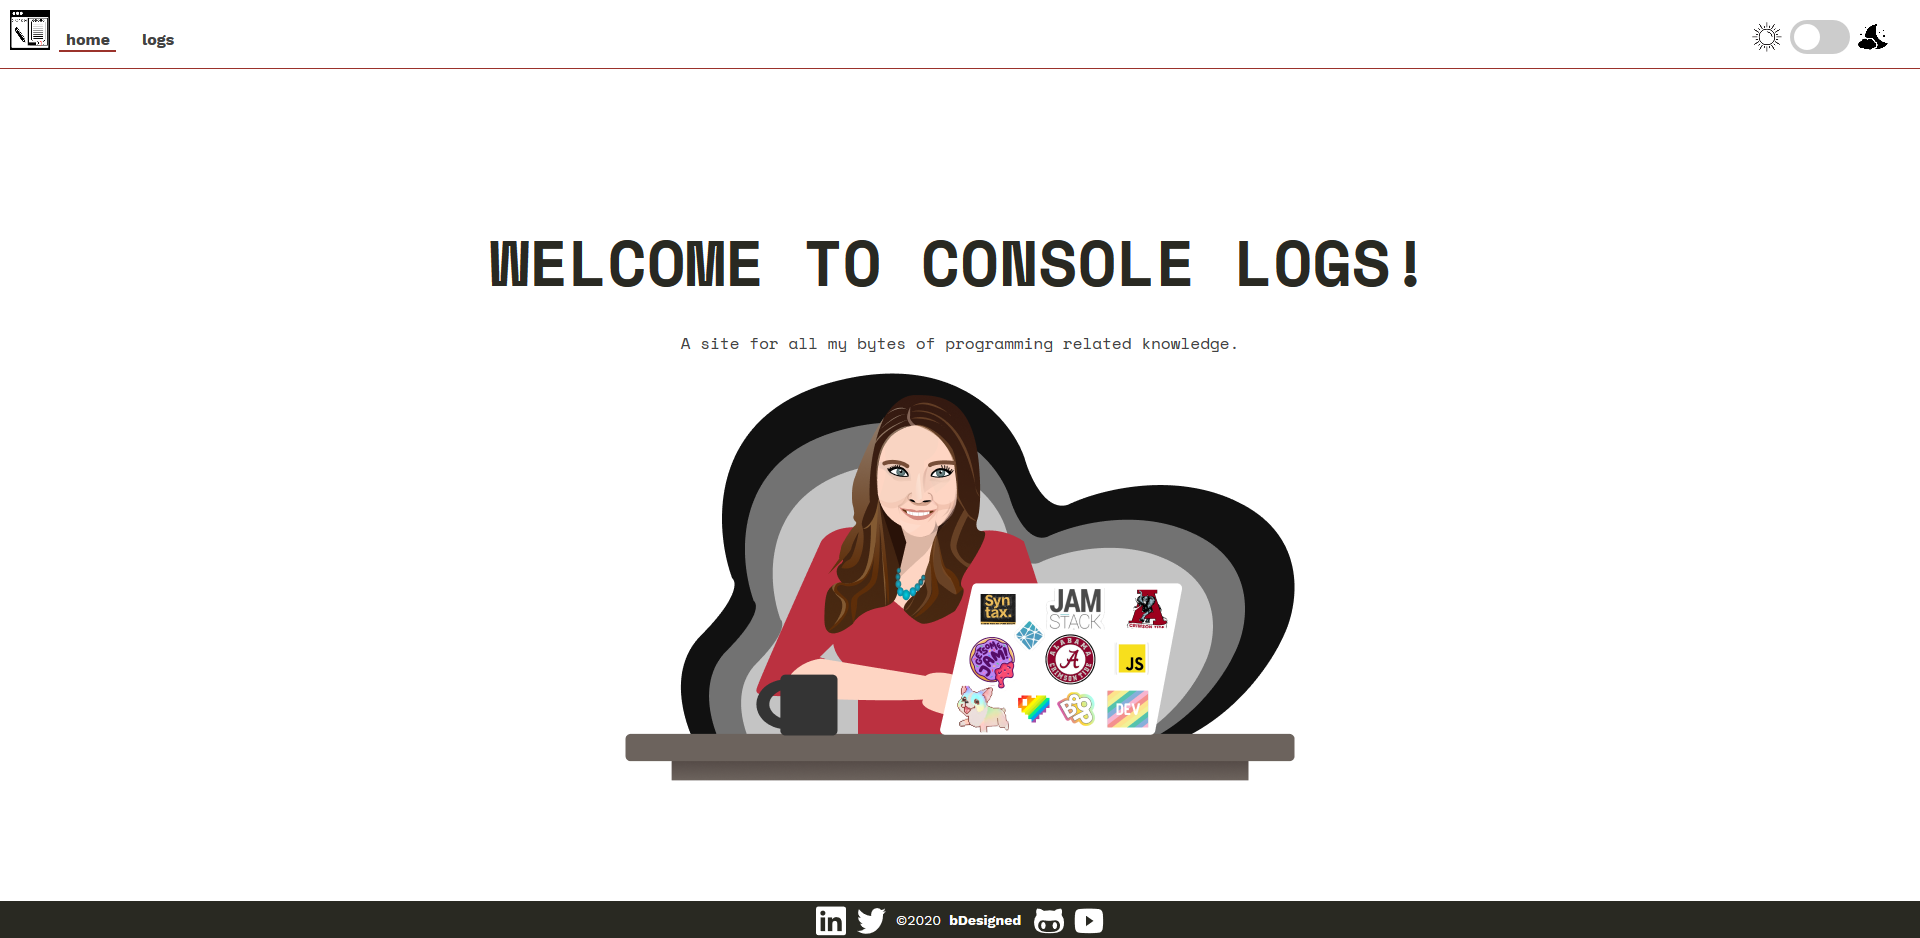
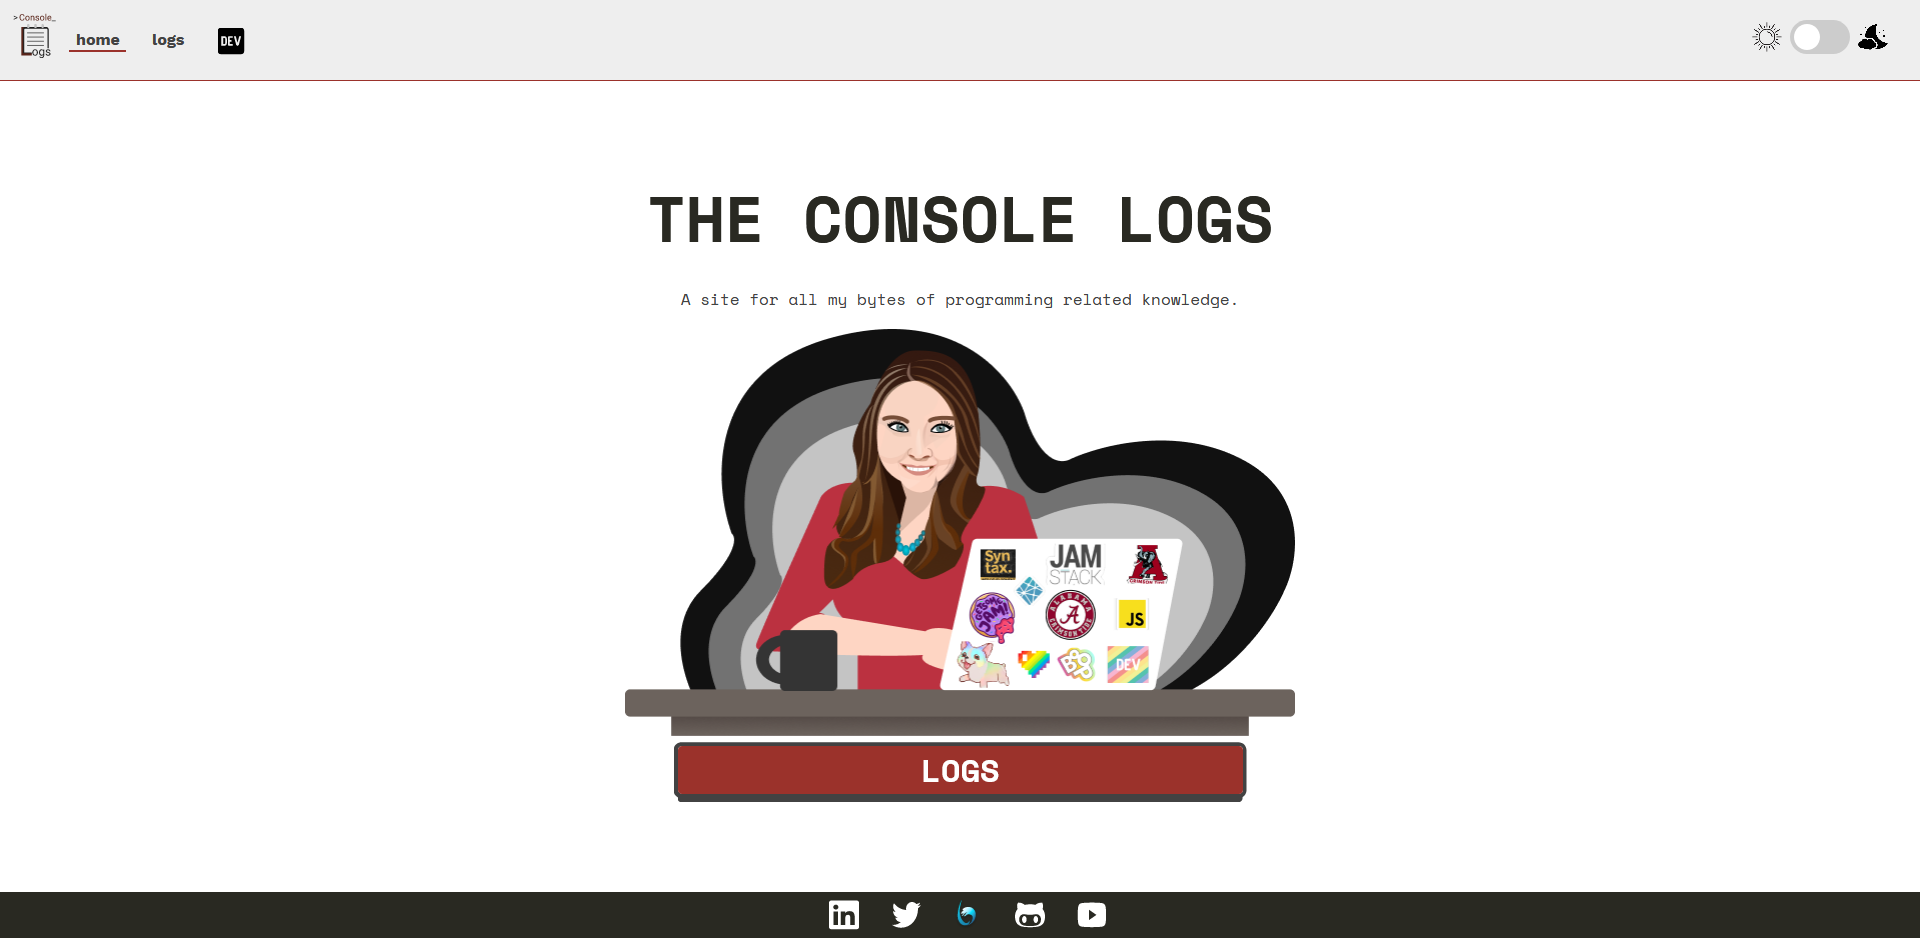
styles and dev link added

Changed region(s): [[0.25, 0.1855, 0.75, 0.8657], [0.0, 0.9275, 1.0, 1.0], [0.0, 0.0, 0.125, 0.0618]]

diff --git a/src/components/Footer.svelte b/src/components/Footer.svelte
@@ -39,6 +39,14 @@
   >
     <img src="youtube.png" alt="youtube" />
   </a>
+  <a
+  aria-label="opens dev.to profile in new tab"
+  href="https://dev.to/bdesigned"
+  rel="noopener noreferrer"
+  target="_blank"
+>
+  <img src="dev.png" alt="dev" />
+</a>
 </footer>
 
 <style>

diff --git a/src/routes/blog/index.svelte b/src/routes/blog/index.svelte
@@ -67,10 +67,10 @@
     width: 350px;
     height: 200px;
   }
-  /* 
-  li:hover {
-    top: -2px;
-  } */
+  p {
+    margin-top: 0.5rem;
+    font-size: 1rem;
+  }
   @media only screen and (min-width: 768px) {
     ul {
       display: grid;

diff --git a/src/routes/contact.svelte b/src/routes/contact.svelte
@@ -98,6 +98,9 @@
 </div>
 
 <style>
+  input[type="text"]:focus, input[type="email"]:focus, textarea:focus {
+    box-shadow: 0 0 0 3px var(--yellow);
+  }
   .thanks {
     display: none;
   }
